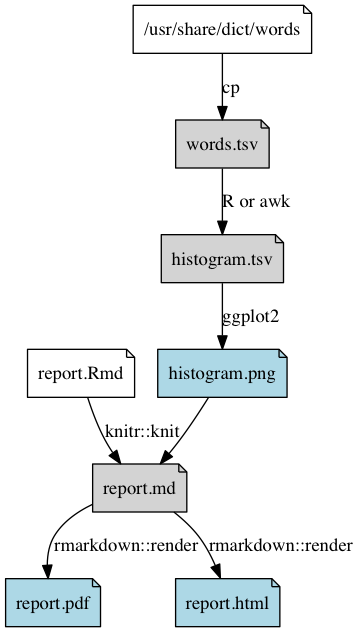
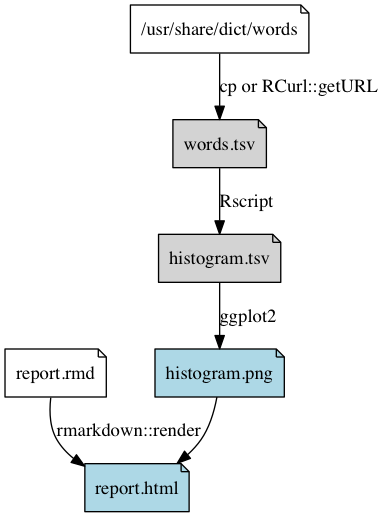
Pipelines: Expand the hands-on activity

Changed region(s): [[0.0, 0.0, 0.9832, 1.0]]

diff --git a/block023_pipelines.html b/block023_pipelines.html
@@ -83,8 +83,18 @@ if (window.hljs && document.readyState && document.readyState === "complete") {
 <li><a href="#configure-rstudio">Configure RStudio</a></li>
 </ul></li>
 <li><a href="#dependency-graph-of-the-pipeline">Dependency graph of the pipeline</a></li>
-<li><a href="#use-rstudio-to-run-make">Use RStudio to run <code>make</code></a></li>
-<li><a href="#run-make-from-the-command-line">Run <code>make</code> from the command line</a></li>
+<li><a href="#use-rstudio-to-run-make">Use RStudio to run make</a></li>
+<li><a href="#run-make-from-the-command-line">Run make from the command line</a></li>
+<li><a href="#download-or-copy-the-dictionary">Download or copy the dictionary</a><ul>
+<li><a href="#download-the-dictionary">Download the dictionary</a></li>
+<li><a href="#copy-the-dictionary">Copy the dictionary</a></li>
+</ul></li>
+<li><a href="#create-a-table-of-word-lengths">Create a table of word lengths</a></li>
+<li><a href="#plot-a-histogram-of-word-lengths">Plot a histogram of word lengths</a></li>
+<li><a href="#render-a-html-report">Render a HTML report</a></li>
+<li><a href="#render-a-pdf-report">Render a PDF report</a></li>
+<li><a href="#add-a-default-target-to-the-makefile">Add a default target to the Makefile</a></li>
+<li><a href="#add-a-clean-target-to-the-makefile">Add a clean target to the Makefile</a></li>
 <li><a href="#troubleshooting">Troubleshooting</a><ul>
 <li><a href="#missing-separator">Missing separator</a></li>
 </ul></li>
@@ -149,7 +159,7 @@ if (window.hljs && document.readyState && document.readyState === "complete") {
 <p><a href="block023_pipelines/images/activity.gv"><img src="block023_pipelines/images/activity.png" alt="block023_pipelines/images/activity.png" /></a></p>
 </div>
 <div id="use-rstudio-to-run-make" class="section level1">
-<h1>Use RStudio to run <code>make</code></h1>
+<h1>Use RStudio to run make</h1>
 <ul>
 <li>Create an RStudio project: <em>File -&gt; New Project</em></li>
 <li>Create a new text file: <em>File -&gt; New File -&gt; Text File</em></li>
@@ -171,11 +181,11 @@ clean:
 <li><em>Clean and Rebuild</em> runs <code>make clean all</code></li>
 <li><em>Clean All</em> runs <code>make clean</code></li>
 </ul>
-<p>For these menu items to work your <code>Makefile</code> needs to have phony targets named <code>all</code> and <code>clean</code>.</p>
+<p>For these menu items to work your <code>Makefile</code> needs to have targets named <code>all</code> and <code>clean</code>. These non-file targets are called phony targets.</p>
 </div>
 </div>
 <div id="run-make-from-the-command-line" class="section level1">
-<h1>Run <code>make</code> from the command line</h1>
+<h1>Run make from the command line</h1>
 <ul>
 <li>Select <em>Tools -&gt; Shell</em></li>
 <li><p>Run</p>
@@ -183,6 +193,71 @@ clean:
 make all
 make clean all</code></pre></li>
 </ul>
+</div>
+<div id="download-or-copy-the-dictionary" class="section level1">
+<h1>Download or copy the dictionary</h1>
+<div id="download-the-dictionary" class="section level2">
+<h2>Download the dictionary</h2>
+<p>Our first <code>Makefile</code> rule will download the dictionary <code>words.tsv</code>. The command of this rule is a one-line R script, so instead of putting the R script in a separate file, we’ll include the command directly in the Makefile, since it’s so short.</p>
+<pre class="makefile"><code>words.tsv:
+    Rscript -e &#39;cat(file=&quot;words.tsv&quot;, RCurl::getURL(&quot;https://raw.githubusercontent.com/eneko/data-repository/master/data/words.txt&quot;))&#39;</code></pre>
+</div>
+<div id="copy-the-dictionary" class="section level2">
+<h2>Copy the dictionary</h2>
+<p>On Mac or Linux systems, rather than download the dictionary, we can simply copy the file <code>/usr/share/dict/words</code> that comes with the operating system. Windows machines do not have <code>/usr/share/dict/words</code>, and so there we’ll have to download the dictionary.</p>
+<pre class="makefile"><code>words.tsv: /usr/share/dict/words
+    cp /usr/share/dict/words words.tsv</code></pre>
+<p>This rule copies the input file <code>/usr/share/dict/words</code> to create the output file <code>words.tsv</code>. We then repeat these file names in the command rule, which seems rather redundant. We can use the oddly-named variables <code>$&lt;</code> and <code>$@</code>, which represent the input file and output file respectively to save us from this redundancy.</p>
+<pre class="makefile"><code>words.tsv: /usr/share/dict/words
+    cp $&lt; $@</code></pre>
+</div>
+</div>
+<div id="create-a-table-of-word-lengths" class="section level1">
+<h1>Create a table of word lengths</h1>
+<p>This rule will read the list of words and generate a table of word length frequency, stored in a tab-separated-values (TSV) file. This R script is a little longer, so we’ll put it in its own file, named <code>histogram.r</code>. If either the script <code>histogram.r</code> or the data file <code>words.tsv</code> were to change, we’d need to rerun this command to get up-to-date results, so both files are dependencies of this rule. The input-file variable <code>$&lt;</code> refers to the <em>first</em> dependency, <code>histogram.r</code>.</p>
+<pre class="makefile"><code>histogram.tsv: histogram.r words.tsv
+    Rscript $&lt;</code></pre>
+<div id="histogram.r" class="section level3">
+<h3>histogram.r</h3>
+<pre class="r"><code>words &lt;- read.delim(&quot;words.tsv&quot;, stringsAsFactors = FALSE)[[1]]
+Length &lt;- nchar(words)
+counts &lt;- table(Length)
+write.table(counts, &quot;histogram.tsv&quot;,
+    sep = &quot;\t&quot;, row.names = FALSE, quote = FALSE)</code></pre>
+</div>
+</div>
+<div id="plot-a-histogram-of-word-lengths" class="section level1">
+<h1>Plot a histogram of word lengths</h1>
+<p>This rule will read the table of word lengths and plot a histogram using qplot. It’s three lines long, but we’ll still include the script in the <code>Makefile</code> directly, and use semicolons <code>;</code> to separate the R commands. The variable <code>$@</code> refers to the output file, <code>histogram.png</code>.</p>
+<pre class="makefile"><code>histogram.png: histogram.tsv
+    Rscript -e &#39;library(ggplot2); qplot(Length, Freq, data=read.delim(&quot;$&lt;&quot;)); ggsave(&quot;$@&quot;)&#39;</code></pre>
+</div>
+<div id="render-a-html-report" class="section level1">
+<h1>Render a HTML report</h1>
+<p>Finally, we’ll use <code>rmarkdown::render</code> to generate the HTML report.</p>
+<pre class="makefile"><code>report.html: report.md
+    Rscript -e &#39;rmarkdown::render(&quot;$&lt;&quot;)&#39;</code></pre>
+<p>If the table of word lengths or figure were to change, <code>make</code> wouldn’t know that it needs to regenerate the report. We can add additional dependencies to the rule so that <code>make</code> will regenerate the report if any of its three dependencies changes.</p>
+<pre class="makefile"><code>report.html: report.rmd histogram.tsv histogram.png
+    Rscript -e &#39;rmarkdown::render(&quot;$&lt;&quot;)&#39;</code></pre>
+<p>Create the RMarkdown file <code>report.rmd</code> that reads the table of words lengths <code>histogram.tsv</code>, reports the most common word length and displays the histogram <code>histogram.png</code>. Here’s <a href="block023_pipelines/activity/report.rmd">one solution</a>, but try not to peek until you’ve attempted this task yourself.</p>
+</div>
+<div id="render-a-pdf-report" class="section level1">
+<h1>Render a PDF report</h1>
+<p>Can you modify the <code>rmarkdown::render</code> command to generate a PDF report instead of an HTML report? Hint: look at the optional second argument of <code>rmarkdown::render</code>. Alternatively, click the <em>Knit</em> dropdown box and select <em>Knit PDF</em>, and look at how RStudio modifies the header of your RMarkdown script.</p>
+</div>
+<div id="add-a-default-target-to-the-makefile" class="section level1">
+<h1>Add a default target to the Makefile</h1>
+<p>The <em>Build -&gt; Build All</em> menu item of RStudio runs the <code>Makefile</code> target named <code>all</code>. To make this default target generate our report, add the report as a dependency of the target named <code>all</code>. Note that unlike other rules, this rule has no commands associated with it.</p>
+<pre class="makefile"><code>all: report.html</code></pre>
+<p>Select <em>Build -&gt; Build All</em>.</p>
+</div>
+<div id="add-a-clean-target-to-the-makefile" class="section level1">
+<h1>Add a clean target to the Makefile</h1>
+<p>The <em>Build -&gt; Clean All</em> menu item of RStudio runs the <code>Makefile</code> target named <code>clean</code>. By convention this target removes all files that can be regenerated by the Makefile.</p>
+<pre class="makefile"><code>clean:
+    rm -f words.tsv histogram.tsv histogram.png report.html</code></pre>
+<p>Select <em>Build -&gt; Clean All</em> and then <em>Build -&gt; Build All</em>.</p>
 </div>
 <div id="troubleshooting" class="section level1">
 <h1>Troubleshooting</h1>

diff --git a/block023_pipelines.md b/block023_pipelines.md
@@ -64,7 +64,7 @@ Dependency graph of the pipeline
 
 [![block023_pipelines/images/activity.png](block023_pipelines/images/activity.png)](block023_pipelines/images/activity.gv)
 
-Use RStudio to run `make`
+Use RStudio to run make
 ================================================================================
 
 + Create an RStudio project: *File -> New Project*
@@ -88,9 +88,9 @@ Use RStudio to run `make`
 + *Clean and Rebuild* runs `make clean all`
 + *Clean All* runs `make clean`
 
-For these menu items to work your `Makefile` needs to have phony targets named `all` and `clean`.
+For these menu items to work your `Makefile` needs to have targets named `all` and `clean`. These non-file targets are called phony targets.
 
-Run `make` from the command line
+Run make from the command line
 ================================================================================
 
 + Select *Tools -> Shell*
@@ -101,6 +101,113 @@ Run `make` from the command line
 	make all
 	make clean all
 	```
+
+Download or copy the dictionary
+================================================================================
+
+Download the dictionary
+------------------------------------------------------------
+
+Our first `Makefile` rule will download the dictionary `words.tsv`. The command of this rule is a one-line R script, so instead of putting the R script in a separate file, we'll include the command directly in the Makefile, since it's so short.
+
+```makefile
+words.tsv:
+	Rscript -e 'cat(file="words.tsv", RCurl::getURL("https://raw.githubusercontent.com/eneko/data-repository/master/data/words.txt"))'
+```
+
+Copy the dictionary
+------------------------------------------------------------
+
+On Mac or Linux systems, rather than download the dictionary, we can simply copy the file `/usr/share/dict/words` that comes with the operating system. Windows machines do not have `/usr/share/dict/words`, and so there we'll have to download the dictionary. 
+
+```makefile
+words.tsv: /usr/share/dict/words
+	cp /usr/share/dict/words words.tsv
+```
+
+This rule copies the input file `/usr/share/dict/words` to create the output file `words.tsv`. We then repeat these file names in the command rule, which seems rather redundant. We can use the oddly-named variables `$<` and `$@`, which represent the input file and output file respectively to save us from this redundancy.
+
+```makefile
+words.tsv: /usr/share/dict/words
+	cp $< $@
+```
+
+Create a table of word lengths
+================================================================================
+
+This rule will read the list of words and generate a table of word length frequency, stored in a tab-separated-values (TSV) file. This R script is a little longer, so we'll put it in its own file, named `histogram.r`. If either the script `histogram.r` or the data file `words.tsv` were to change, we'd need to rerun this command to get up-to-date results, so both files are dependencies of this rule. The input-file variable `$<` refers to the *first* dependency, `histogram.r`.
+
+```makefile
+histogram.tsv: histogram.r words.tsv
+	Rscript $<
+```
+
+### histogram.r
+
+```r
+words <- read.delim("words.tsv", stringsAsFactors = FALSE)[[1]]
+Length <- nchar(words)
+counts <- table(Length)
+write.table(counts, "histogram.tsv",
+	sep = "\t", row.names = FALSE, quote = FALSE)
+```
+
+Plot a histogram of word lengths
+================================================================================
+
+This rule will read the table of word lengths and plot a histogram using qplot. It's three lines long, but we'll still include the script in the `Makefile` directly, and use semicolons `;` to separate the R commands. The variable `$@` refers to the output file, `histogram.png`.
+
+```makefile
+histogram.png: histogram.tsv
+	Rscript -e 'library(ggplot2); qplot(Length, Freq, data=read.delim("$<")); ggsave("$@")'
+```
+
+Render a HTML report
+================================================================================
+
+Finally, we'll use `rmarkdown::render` to generate the HTML report.
+
+```makefile
+report.html: report.md
+	Rscript -e 'rmarkdown::render("$<")'
+```
+
+If the table of word lengths or figure were to change, `make` wouldn't know that it needs to regenerate the report. We can add additional dependencies to the rule so that `make` will regenerate the report if any of its three dependencies changes.
+
+```makefile
+report.html: report.rmd histogram.tsv histogram.png
+	Rscript -e 'rmarkdown::render("$<")'
+```
+
+Create the RMarkdown file `report.rmd` that reads the table of words lengths `histogram.tsv`, reports the most common word length and displays the histogram `histogram.png`. Here's [one solution](block023_pipelines/activity/report.rmd), but try not to peek until you've attempted this task yourself.
+
+Render a PDF report
+================================================================================
+
+Can you modify the `rmarkdown::render` command to generate a PDF report instead of an HTML report? Hint: look at the optional second argument of `rmarkdown::render`. Alternatively, click the *Knit* dropdown box and select *Knit PDF*, and look at how RStudio modifies the header of your RMarkdown script.
+
+Add a default target to the Makefile
+================================================================================
+
+The *Build -> Build All* menu item of RStudio runs the `Makefile` target named `all`. To make this default target generate our report, add the report as a dependency of the target named `all`. Note that unlike other rules, this rule has no commands associated with it.
+
+```makefile
+all: report.html
+```
+
+Select *Build -> Build All*.
+
+Add a clean target to the Makefile
+================================================================================
+
+The *Build -> Clean All* menu item of RStudio runs the `Makefile` target named `clean`. By convention this target removes all files that can be regenerated by the Makefile.
+
+```makefile
+clean:
+	rm -f words.tsv histogram.tsv histogram.png report.html
+```
+
+Select *Build -> Clean All* and then *Build -> Build All*.
 
 Troubleshooting
 ================================================================================
